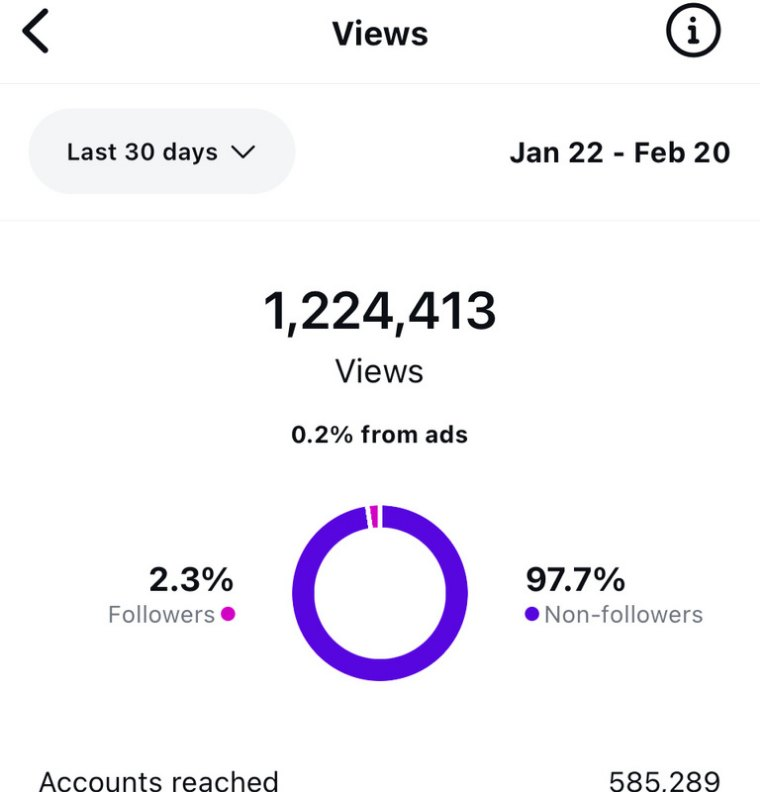
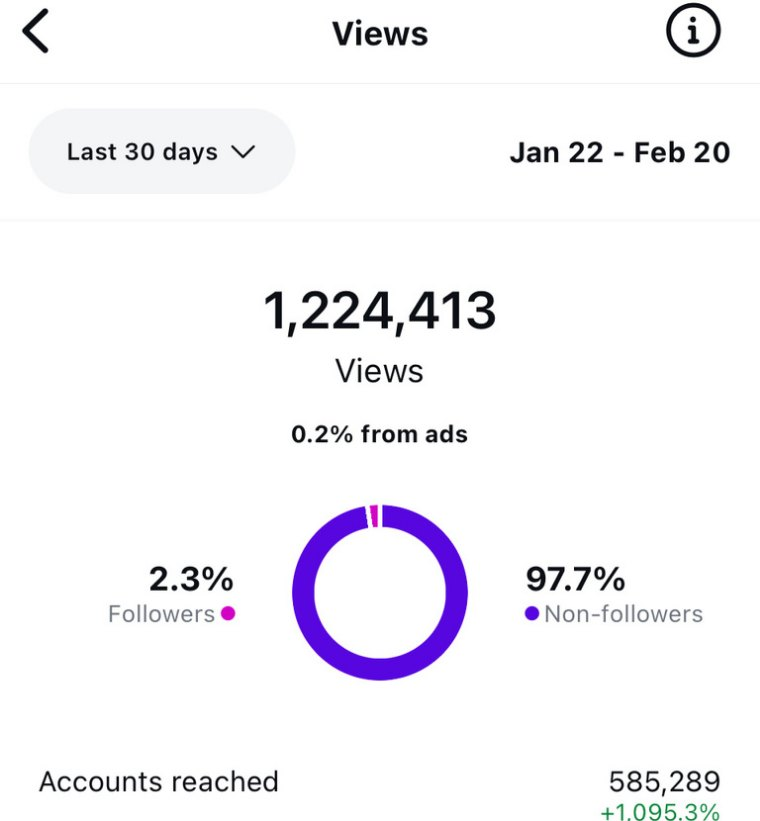
Cut the branding out of the Shopify frame, and even out the spacing
The Shopify image was a four-panel composite: the two dashboards, a logo
lockup and a title card. Only the dashboards are evidence, so the frame is
cut into the September panel and the November panel, each carrying its own
caption with the orders and the rate on it. The panel edges were found by
scanning the composite for its white regions rather than guessed.

Spacing, with the same rule throughout: more air between sections
(56-96px from 48-76) and under every section heading (32-48px from a flat
32), and hairlines where a card changes subject — between the metric
bands, above the screenshots, above the closing line. Cards lift on hover
like the receipts cards already did, and a screenshot lifts under the
pointer on its own.

Two holes closed: the shorter testimonial stretched to its neighbour's
height and pooled the difference at the bottom, so the quote block is
centred; and the before and after cards no longer stretch to each other.

Claude-Session: https://claude.ai/code/session_01UN2RioPwC5XgdiV2yEraov

diff --git a/assets/css/styles.css b/assets/css/styles.css
@@ -79,7 +79,7 @@
   /* layout */
   --shell: 1200px;
   --gutter: var(--sp-24);
-  --section-y: clamp(48px, 5.5vw, 76px);
+  --section-y: clamp(56px, 6.5vw, 96px);
   --radius: 16px;
   --radius-sm: 10px;
   --hairline: 1px solid var(--line);
@@ -165,7 +165,7 @@ section { padding-block: var(--section-y); }
 /* every section opens on a centred header block */
 .section-head {
   max-width: 46ch;
-  margin: 0 auto var(--sp-32);
+  margin: 0 auto clamp(var(--sp-32), 4vw, var(--sp-48));
   text-align: center;
 }
 
@@ -932,13 +932,20 @@ html:not(.js) .meter__track span { width: calc(var(--pct) * 1%); }
   text-align: center;
   transition: border-color 320ms var(--ease), box-shadow 420ms var(--ease-out);
 }
+.ba__card {
+  transition: border-color 320ms var(--ease), transform 420ms var(--ease-out),
+              box-shadow 420ms var(--ease-out);
+}
 .ba__card:hover {
   border-color: color-mix(in srgb, var(--gold) 40%, var(--line));
-  box-shadow: var(--neon-soft);
+  transform: translateY(-3px);
+  box-shadow: 0 24px 60px color-mix(in srgb, var(--ink) 70%, transparent), var(--neon-soft);
 }
 
 .ba__note {
   margin-top: var(--sp-24);
+  padding-top: var(--sp-24);
+  border-top: var(--hairline);
   font-size: var(--t-label);
   color: var(--grey);
   text-align: left;
@@ -974,15 +981,7 @@ html:not(.js) .meter__track span { width: calc(var(--pct) * 1%); }
 .ba__chip--after b { color: var(--gold-lift); }
 .ba__arrow { color: var(--grey); }
 
-/* the screenshot the figures were read off */
-.ba__shot { margin-top: var(--sp-24); }
-.ba__shot img {
-  width: 100%;
-  border: var(--hairline);
-  border-radius: var(--radius-sm);
-  background: var(--surface-lift);
-}
-.ba__shot figcaption,
+/* the screenshots the figures were read off */
 .ba__pair figcaption {
   margin-top: var(--sp-8);
   font-size: var(--t-label);
@@ -995,8 +994,11 @@ html:not(.js) .meter__track span { width: calc(var(--pct) * 1%); }
   display: grid;
   grid-template-columns: repeat(2, minmax(0, 1fr));
   gap: var(--sp-16);
-  margin-top: var(--sp-24);
+  margin-top: var(--sp-32);
+  padding-top: var(--sp-32);
+  border-top: var(--hairline);
 }
+.ba__pair--stack { grid-template-columns: minmax(0, 1fr); gap: var(--sp-24); }
 /* both panels sit on one baseline: the row takes the taller image and the
    shorter one is centred on the same white it already has */
 .ba__pair figure { display: grid; grid-template-rows: 1fr auto; min-width: 0; }
@@ -1009,17 +1011,26 @@ html:not(.js) .meter__track span { width: calc(var(--pct) * 1%); }
   border: var(--hairline);
   border-radius: var(--radius-sm);
   background: #fff;
+  transition: border-color 300ms var(--ease), box-shadow 420ms var(--ease-out),
+              transform 420ms var(--ease-out);
 }
+.ba__pair figure:hover img {
+  border-color: color-mix(in srgb, var(--gold) 55%, var(--line));
+  box-shadow: 0 18px 40px color-mix(in srgb, var(--ink) 75%, transparent), var(--neon-soft);
+  transform: translateY(-2px);
+}
+.ba__pair--stack img { height: auto; object-fit: fill; }
 .ba__pair figcaption { text-align: center; font-variant-numeric: tabular-nums; }
 .ba__pair .is-after { color: var(--gold-lift); }
 
 /* one metric, two bars: the state before the work and the state after */
 .swing {
   display: grid;
-  gap: var(--sp-24);
-  margin-top: var(--sp-24);
+  gap: var(--sp-16);
+  margin-top: var(--sp-32);
   text-align: left;
 }
+.swing li + li { padding-top: var(--sp-16); border-top: var(--hairline); }
 .swing__k {
   display: flex;
   align-items: baseline;
@@ -1140,7 +1151,12 @@ html:not(.js) .swing__track > span { width: calc(var(--w) * 1%); }
   margin-inline: auto;
 }
 
+/* the two quotes are different lengths; centring the block spreads the
+   difference instead of pooling it at the bottom of the shorter card */
 .voice {
+  display: flex;
+  flex-direction: column;
+  justify-content: center;
   padding: var(--sp-32);
   border: var(--hairline);
   border-radius: var(--radius);

diff --git a/index.html b/index.html
@@ -294,13 +294,20 @@
             </li>
           </ul>
 
-          <figure class="ba__shot">
-            <img src="/assets/proof/houdini-shopify-sep-nov-2024.jpg" loading="lazy" decoding="async"
-                 width="1920" height="1080"
-                 alt="Two Shopify dashboards side by side. September 1 to 30, 2024: 77,440 sessions, 1,544 orders, 1.85% conversion rate. November 1 to 30, 2024: 131,814 sessions, 3,272 orders, 2.23% conversion rate.">
-            <figcaption>The client's own Shopify dashboard, both months. Revenue is blanked at
-              their request; the rates and counts are as shown.</figcaption>
-          </figure>
+          <div class="ba__pair ba__pair--stack">
+            <figure>
+              <img src="/assets/proof/houdini-before.jpg" loading="lazy" decoding="async"
+                   width="1200" height="492"
+                   alt="Shopify dashboard, September 1 to 30, 2024: 77,440 sessions, 1,544 orders, 1.85 per cent conversion rate.">
+              <figcaption>Before &middot; 1,544 orders at 1.85%</figcaption>
+            </figure>
+            <figure>
+              <img src="/assets/proof/houdini-after.jpg" loading="lazy" decoding="async"
+                   width="1200" height="536"
+                   alt="Shopify dashboard, November 1 to 30, 2024: 131,814 sessions, 3,272 orders, 2.23 per cent conversion rate.">
+              <figcaption class="is-after">After &middot; 3,272 orders at 2.23%</figcaption>
+            </figure>
+          </div>
 
           <p class="ba__note">Traffic went up and the conversion rate went up with it, so the
             extra sessions were buyers rather than passers-by.</p>
@@ -368,7 +375,7 @@
             </figure>
             <figure>
               <img src="/assets/proof/pivot-point-after.jpg" loading="lazy" decoding="async"
-                   width="760" height="792"
+                   width="760" height="821"
                    alt="Instagram Views panel, last 30 days, January 22 to February 20: 1,224,413 views, 585,289 accounts reached, up 1,095.3 per cent, 97.7 per cent non-followers.">
               <figcaption class="is-after">After &middot; 1,224,413 views</figcaption>
             </figure>
